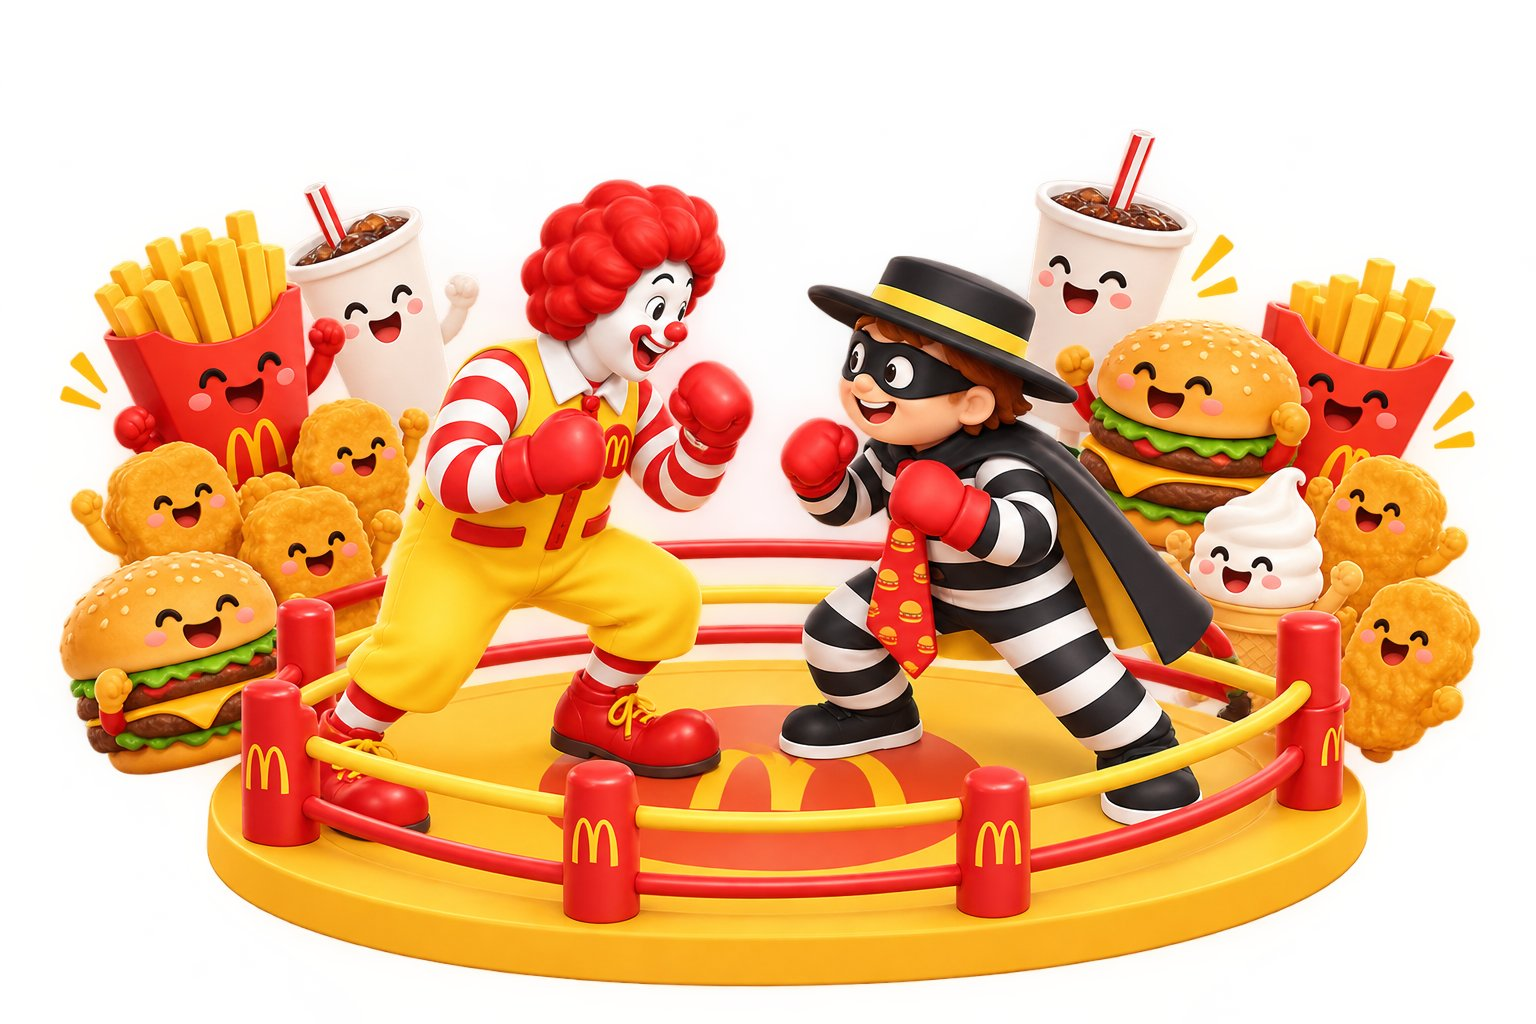
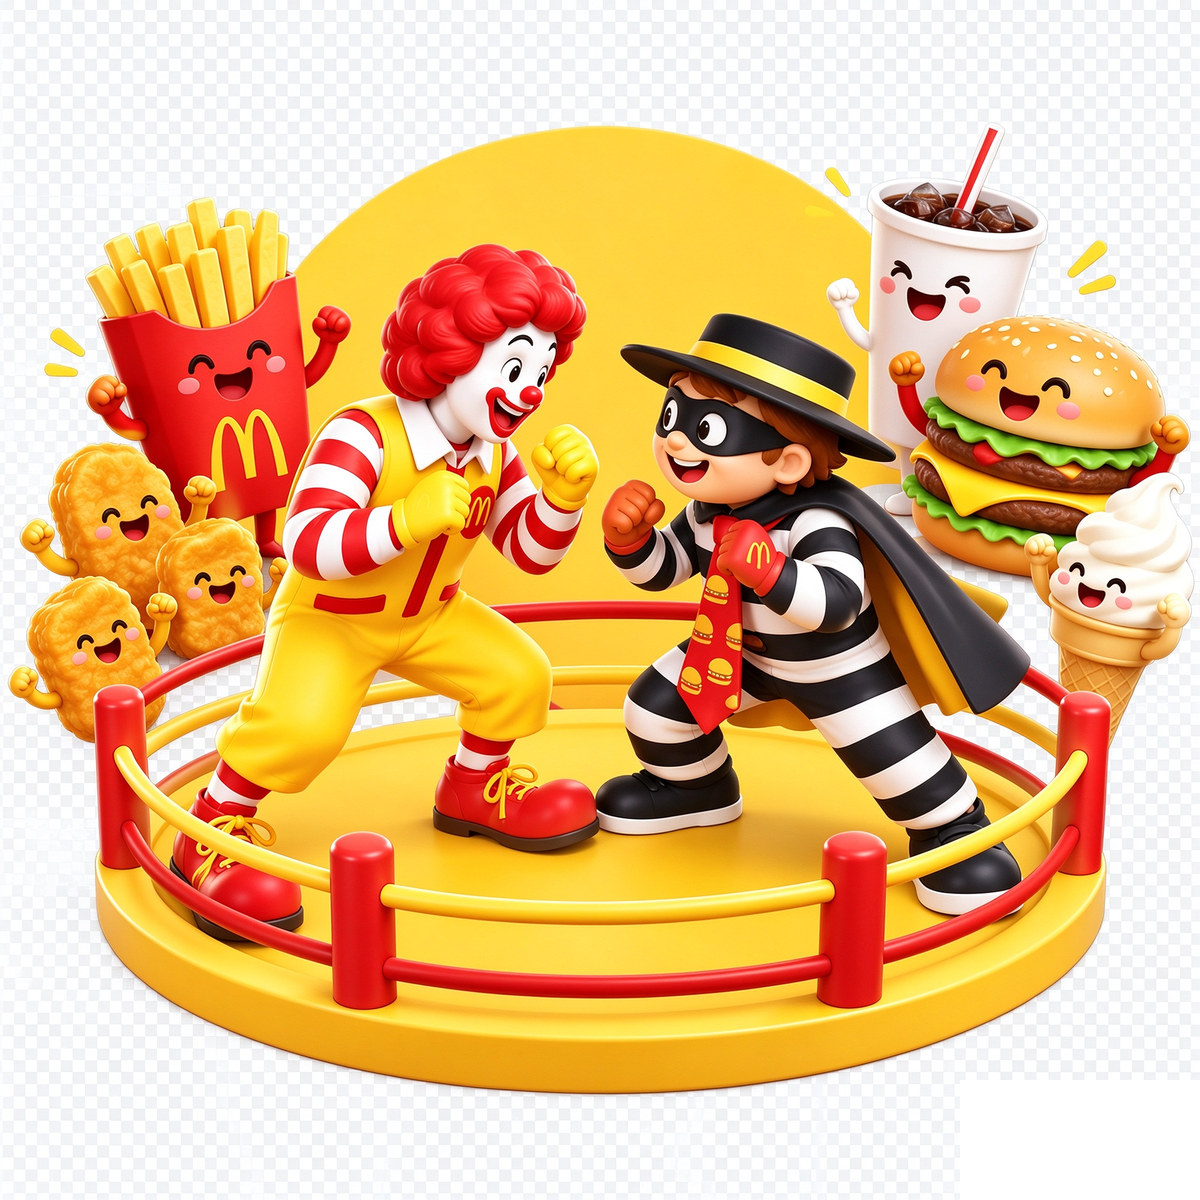
首页展示位换方形擂台图(2048方图压缩至1200,去除AI生成水印)

diff --git a/web/index.html b/web/index.html
@@ -118,7 +118,7 @@ img{display:block}
 .cd-cell .num{font-size:22px;font-weight:900;color:var(--yellow);font-variant-numeric:tabular-nums}
 .cd-cell .unit{font-size:12px;font-weight:500;color:#FFD5CE}
 .hero-stat{font-size:14px;color:var(--hero-mut);line-height:20px}
-.hero-showcase{position:relative;width:min(564px,46%);flex:none;aspect-ratio:3/2;border-radius:24px;overflow:hidden;box-shadow:0 18px 44px -14px rgba(30,27,24,.45)}
+.hero-showcase{position:relative;width:min(500px,42%);flex:none;aspect-ratio:1/1;border-radius:24px;overflow:hidden;box-shadow:0 18px 44px -14px rgba(30,27,24,.45)}
 .hero-showcase img{position:absolute;left:0;top:0;width:100%;height:100%;object-fit:cover}
 
 /* ================= 波浪条 ================= */
